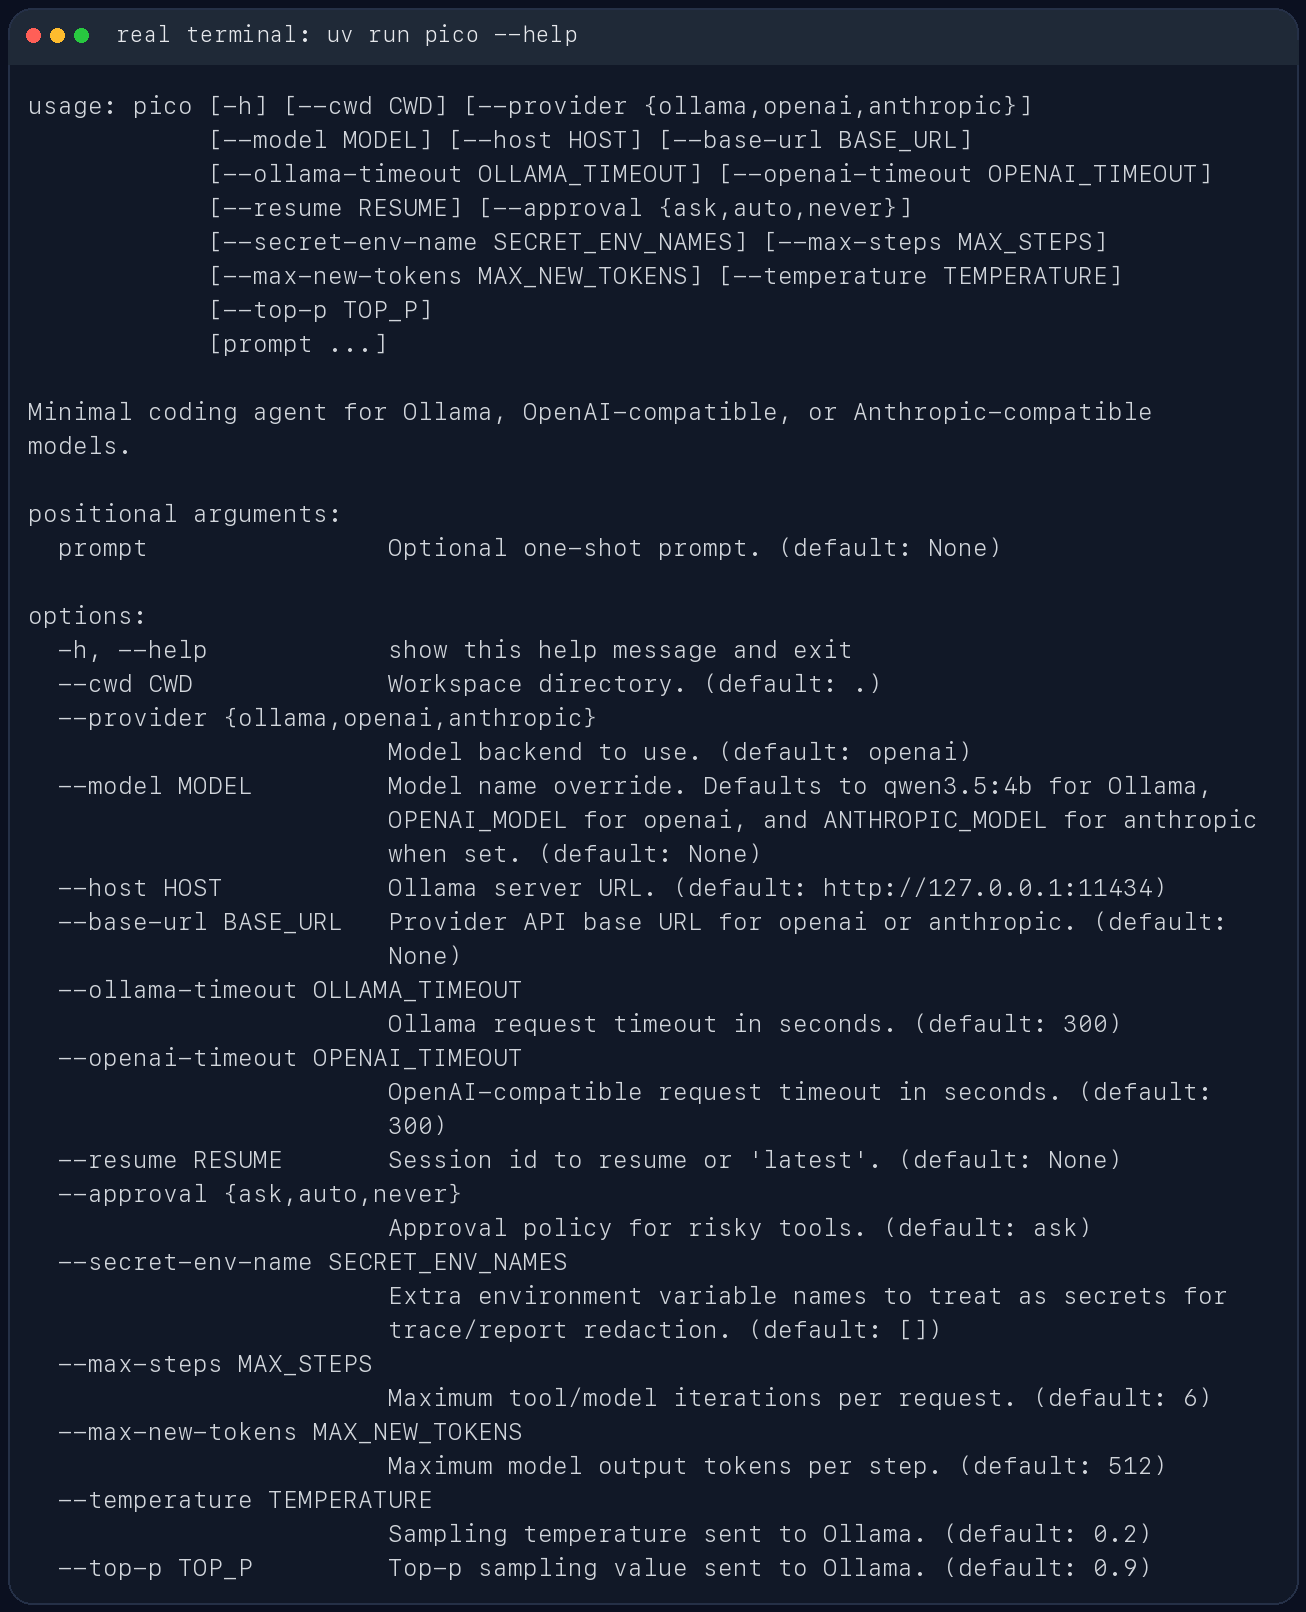
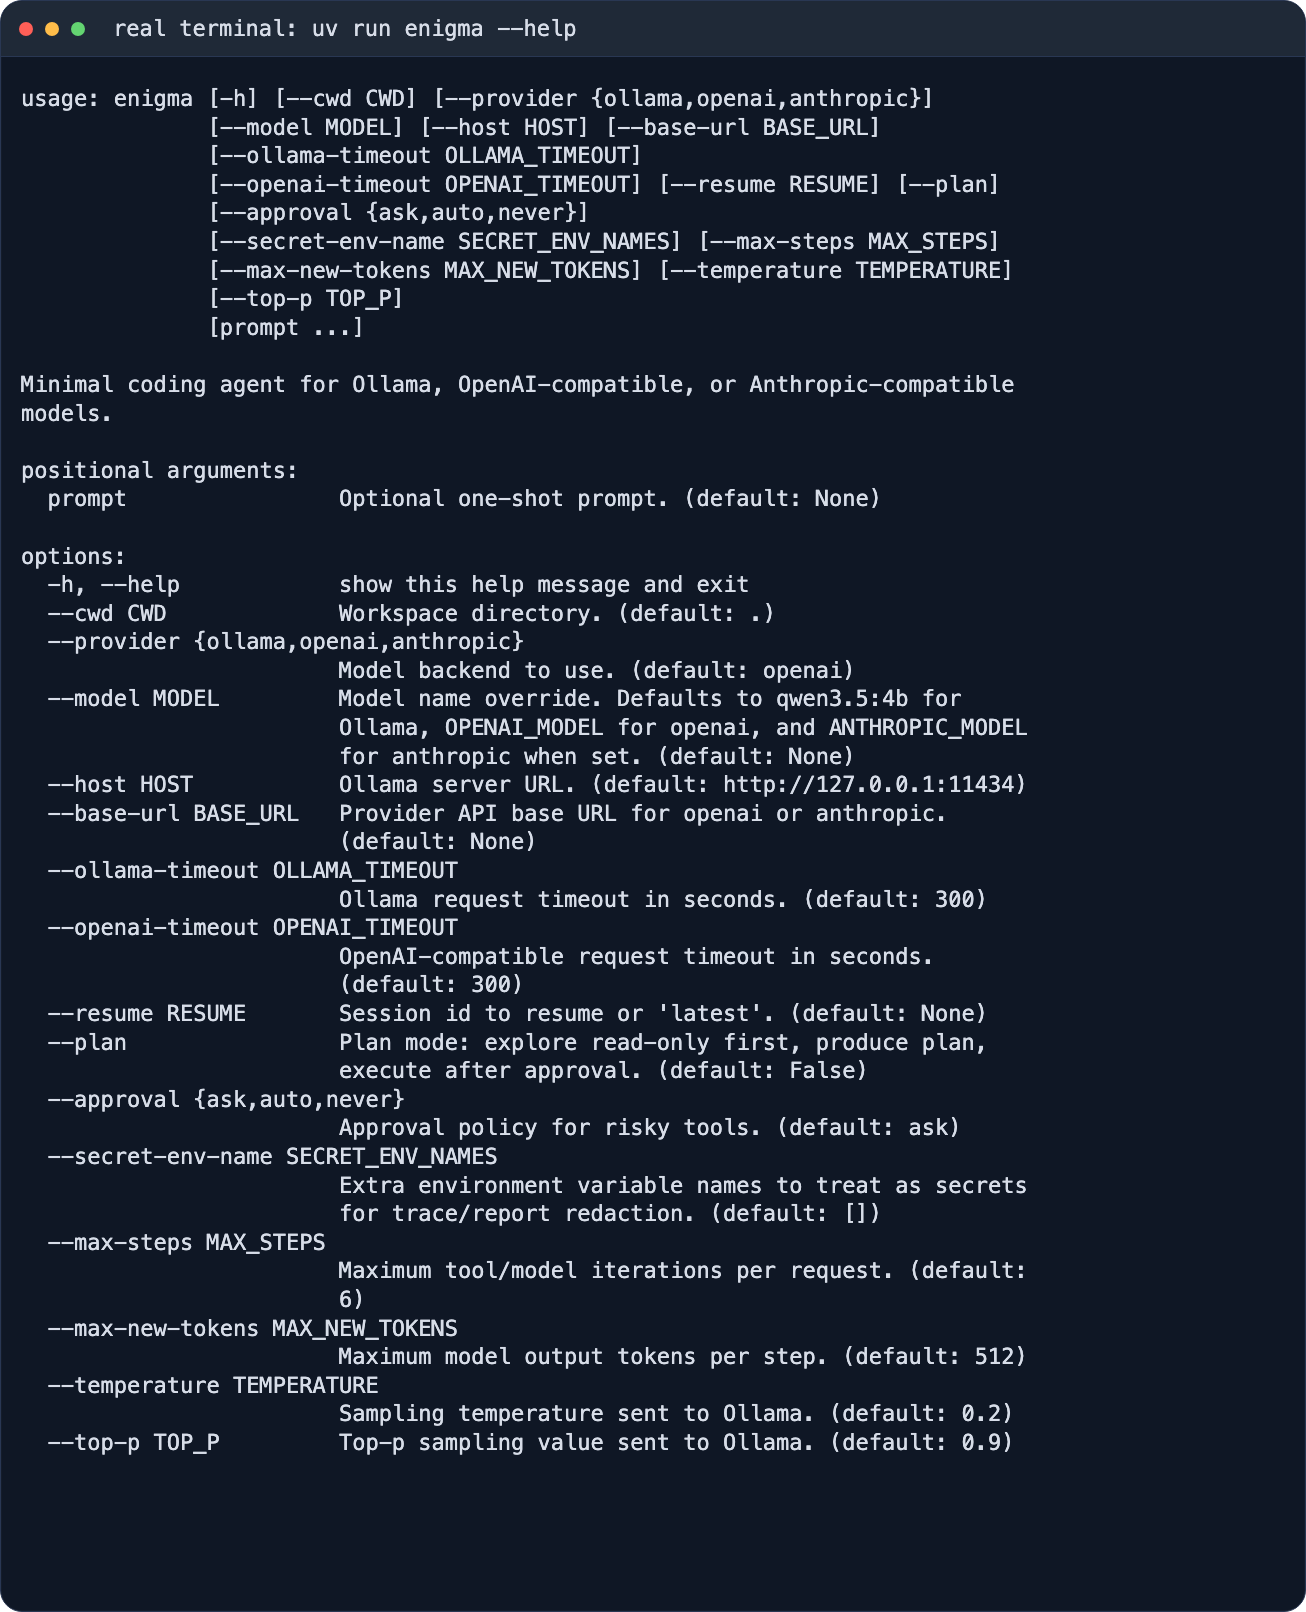
优化

diff --git a/enigma/cli.py b/enigma/cli.py
@@ -31,10 +31,10 @@ DEFAULT_SECRET_ENV_NAMES = (
 )
 
 WELCOME_ART = (
-    "        /\\___/\\\\",
-    "       (  o o  )",
-    "       /   ^   \\\\",
-    "      /|       |\\\\",
+    "        /\\_/\\",
+    "       ( o.o )",
+    "       /  ^  \\",
+    "      /|     |\\",
 )
 WELCOME_NAME = "enigma"
 WELCOME_SUBTITLE = "local coding agent"

diff --git a/README.md b/README.md
@@ -8,24 +8,102 @@ Enigma 是一个面向本地代码仓库的轻量级 coding agent。它运行在
 
 - **多模型后端**：支持 Ollama、OpenAI 兼容 Responses API、Anthropic 兼容 Messages API。
 - **仓库感知工作流**：启动时采集 Git 状态、项目文档、目录结构和最近提交，用于构建当前任务上下文。
-- **受控工具执行**：对文件读写、shell 执行、搜索、委派等工具做路径校验、审批策略、重复调用检测和密钥脱敏。
-- **分层记忆系统**：维护工作记忆、情景记忆、语义记忆，并通过文件 freshness 判断避免使用过期摘要。
+- **【本轮面试补强】Harness policy 硬约束**：把 UTF-8 读写、workspace 路径锚定、危险工具审批等确定性规则放在工具层，而不是依赖 prompt 提醒。
+- **受控工具执行**：对 glob、搜索、轻量 symbol search、文件读写、shell 执行和委派等工具做路径校验、审批策略、重复调用检测和密钥脱敏。
+- **显式 coding loop**：系统 prompt 要求按 `search/list/glob -> read -> reason -> edit/patch -> test/check -> observe -> revise` 推进代码修改，Plan 模式使用只读版探索闭环。
+- **【本轮面试补强】工程化记忆系统**：工作记忆减少重复探索，情景记忆保留失败和执行节点，语义记忆记录跨会话稳定事实及其适用场景。
 - **上下文预算管理**：按模型上下文窗口动态设置 prompt budget，并在超限前压缩 history、工具结果和记忆片段。
+- **【本轮面试补强】Plan / Execute / Review / Repair 编排**：`/orchestrate` 通过固定角色和有限状态转移形成轻量多智能体闭环。
 - **Plan / Review / Skills**：内置 `/plan` 只读规划、`/review` 代码审查、`/skills` 技能加载等面向工程任务的命令。
 - **可追踪运行产物**：每次任务生成 `task_state.json`、`trace.jsonl`、`report.json`，便于复盘和调试。
 - **测试覆盖完整**：围绕 runtime、记忆、上下文管理、安全约束、技能系统、审查流程和 session DB 编写了单元测试。
 
+## Problem → Design → Evidence
+
+Enigma 的定位不是“复刻一个聊天壳”，而是一个面向本地仓库任务的 coding agent harness。核心问题和对应设计如下：
+
+- **长任务重复探索**：模型容易反复读取同一批文件，也容易忘记已经验证过的事实。Enigma 用工作记忆保存当前任务、recent files 和带 freshness 的文件摘要，用相关记忆召回减少重复工具调用。
+- **工具边界不应只靠 prompt**：编码、路径和危险操作审批是确定性规则。Enigma 用 `HarnessPolicy` 和工具校验层保证 UTF-8 读写、workspace 锚定、risky tool 审批，而不是要求模型每次“记得遵守”。
+- **工具链需要覆盖常见 coding agent 闭环**：除了 `list_files`、`search`、`read_file`、`write_file` / `patch_file` 和 `run_shell`，Enigma 还补了 `glob` 和轻量 `symbol_search`，让模型能先定位文件和定义，再读取、修改、测试和修复。
+- **长期记忆需要触发场景**：语义记忆不只保存一句话，还可以保存 `problem` 和 `applies_when`，让 agent 知道这条约定未来在什么场景下用于解决什么问题。
+- **计划、执行、审查需要闭环**：单个模型循环很难区分计划错、执行错还是审查发现新风险。`/orchestrate` 把 Planner、Executor、Reviewer、RepairPlanner 拆成固定角色，用状态转移和 retry limit 控制交互。
+
+这些设计都写入 `trace.jsonl` / `report.json`，并由 pytest 覆盖典型边界：路径逃逸、只读规划、记忆召回、review 阻断、repair 重试和 retry abort。
+
+## 本轮面试补强改动
+
+这一轮改造来自一次项目面试复盘。面试官的核心质疑不是“功能少”，而是项目需要说清楚真实 coding agent 痛点、工程边界和最小有效改造。因此本轮没有引入重型框架，而是围绕 harness 能力做了四个有边界的增强。
+
+| 面试官指出的问题 | 本轮改进 | 可展示证据 | 面试时怎么回应 |
+| --- | --- | --- | --- |
+| 设计像功能复刻，没有从真实 coding 痛点出发 | README 改成 `Problem → Design → Evidence` 叙事，强调重复探索、工具边界、长任务闭环和跨会话教学成本 | 本 README 的问题映射；`.enigma/runs/<run_id>/trace.jsonl` / `report.json` | “我后来把项目从功能清单收敛成 coding agent harness，重点解释每个模块解决的真实问题。” |
+| 能用工具层约束解决的问题，不应只写 prompt | 新增 `HarnessPolicy` / `ToolPolicy`，把 UTF-8、workspace path、risky tool 审批、plan mode 工具过滤放到确定性策略层 | `enigma/policy.py`、`enigma/tools.py`、`tests/test_safety_invariants.py`、`tests/test_plan_mode.py` | “prompt 是软约束。路径安全、编码和审批这种规则应该由 harness 保证，而不是靠模型记住。” |
+| 工具面和流程没有完整对齐 coding agent 常见闭环 | 新增 `glob`、轻量 `symbol_search`，并在正常/Plan prompt 中显式写入定位、读取、修改、测试、观察、修复流程 | `enigma/tools.py`、`enigma/runtime.py`、`tests/test_enigma.py` | “我没有只在文档里说 workflow，而是补了模型可调用的文件定位和符号定位工具，并把闭环写进系统 prompt。” |
+| 记忆系统说不清什么时候触发、解决什么问题 | durable memory 增加 `problem` 和 `applies_when`，召回时把适用场景展示给模型 | `enigma/memory.py`、`enigma/context_manager.py`、`tests/test_memory.py` | “长期记忆不只存文本，还存未来什么时候用它。这样才能解释记忆为什么会被召回。” |
+| multi-agent 不能只是线性流水线 | 新增 `/orchestrate`：Planner / Executor / Reviewer / RepairPlanner 固定角色，支持执行失败和 review finding 回到 RepairPlan，带 retry limit | `enigma/orchestration.py`、`enigma/cli.py`、`tests/test_orchestration.py` | “它不是开放 swarm，而是 bounded orchestration。角色边界、工具边界和状态转移都很清楚。” |
+| 项目缺少可验证证据 | 新增 orchestration、policy、memory 相关测试，并跑通真实 Ollama 调用链 | `231 passed`、`ruff check`、真实 `/orchestrate` 输出 | “我没有只写 README，补了回归测试和一次真实模型调用，能展示状态机确实完成闭环。” |
+
+### 本轮新增或重点修改的文件
+
+- `enigma/policy.py`：本轮新增，承载 harness / tool policy 的确定性规则。
+- `enigma/orchestration.py`：本轮新增，实现 Plan / Execute / Review / Repair 状态机。
+- `enigma/cli.py`：本轮修改，新增 `/orchestrate <task>` 命令入口。
+- `enigma/memory.py`：本轮修改，durable memory 支持 `problem` 和 `applies_when`。
+- `enigma/context_manager.py`：本轮修改，召回记忆时展示适用场景。
+- `enigma/tools.py`：本轮修改，将 risky tool 与审批、plan mode 工具面进一步对齐。
+- `enigma/runtime.py`：本轮修改，在正常模式和 Plan 模式 prompt 中明确 coding loop，并暴露 `glob` / `symbol_search` 示例。
+- `tests/test_orchestration.py`：本轮新增，覆盖正常路径、repair、review 阻断、retry abort、只读 reviewer 工具面和 trace。
+- `tests/test_memory.py`、`tests/test_plan_mode.py`、`tests/test_safety_invariants.py`：本轮补强，覆盖 applies_when、plan mode 工具限制和策略边界。
+
+### 本轮真实验证
+
+本轮验证包括单元测试、静态检查和真实模型调用。
+
+```bash
+uv run pytest -q
+# 231 passed
+
+uv run ruff check .
+# All checks passed!
+
+uv run enigma --provider ollama --model qwen3.6:35b-a3b --approval never --max-steps 4 --max-new-tokens 512 \
+  "请先调用 read_file 工具读取 README.md 的第 1 到 20 行，然后根据工具结果用中文简要总结这个项目是什么。必须先调用工具，不要直接回答。"
+# 真实链路：model -> read_file tool -> model -> final
+
+uv run enigma --provider ollama --model qwen3.6:35b-a3b --approval never --max-steps 6 --max-new-tokens 700 \
+  "/orchestrate 只读检查 README.md 的项目定位，并给出是否符合 coding agent harness 叙事的简短结论。不要修改任何文件。"
+# Orchestration complete.
+# - state: DONE
+# - retries: 0/2
+# - steps: 3
+# - review_findings: 0
+```
+
+实机测试也暴露了一个真实模型行为：`qwen3.6:35b-a3b` 有时会重复工具调用或重复输出 `<final>`。当前 runtime 的重复工具调用防护可以拦截相同工具调用，`/orchestrate` 的状态机也能收敛到 `DONE`。本轮因此调整了计划步骤解析，只把 `## Steps` 中的顶层步骤作为 active step，避免把缩进说明和风险列表误当成多个执行步骤。
+
+## 面试回答口径
+
+**项目总述**：Enigma 是一个本地 coding agent harness。它不是训练大模型，也不是单纯聊天壳，而是在应用层解决 agent 如何安全、稳定、可追踪地完成本地仓库任务。
+
+**为什么不是只靠 prompt**：prompt 是软约束。UTF-8、路径锚定、危险工具审批、plan mode 只读工具面这些确定性规则，应该落到 harness policy 和工具层。
+
+**记忆系统解决什么问题**：工作记忆减少重复探索，情景记忆帮助长任务恢复和失败追踪，语义记忆减少跨会话重复教学。本轮给长期记忆加了 `applies_when`，让 agent 知道这条记忆未来在什么场景下该被召回。
+
+**这算不算 multi-agent**：它不是开放式 swarm，而是 bounded multi-agent orchestration。Planner、Executor、Reviewer、RepairPlanner 有固定职责和状态转移；执行失败或审查不通过会回到 RepairPlanner，超过 retry limit 会 abort。
+
+**为什么适配 Apple LLM/Agent Intern**：这个项目对应 LLM/Agent practical applications、multi-agent systems、backend integration、performance and efficiency。它展示的是 agent harness 的工程化能力：工具边界、状态机、记忆召回、trace/report 和真实调用验证。
+
 ## 使用截图
 
-CLI 帮助信息：
+当前版本 CLI 帮助信息：
 
 ![enigma help](assets/screenshots/enigma-help.png)
 
-启动界面：
+当前版本启动界面：
 
 ![enigma start](assets/screenshots/enigma-start.png)
 
-REPL 内置命令与会话路径：
+当前版本 REPL 内置命令与会话路径：
 
 ![enigma repl](assets/screenshots/enigma-repl.png)
 
@@ -45,7 +123,9 @@ enigma/
   cli.py              # CLI 参数解析、模型后端选择、REPL 启动
   runtime.py          # Agent 控制循环、工具调度、trace 与记忆更新
   models.py           # Ollama / OpenAI-compatible / Anthropic-compatible 客户端
-  tools.py            # 文件、shell、搜索、委派等工具实现
+  policy.py           # HarnessPolicy / ToolPolicy：确定性工具规则
+  orchestration.py    # Plan / Execute / Review / Repair 状态机编排
+  tools.py            # 文件、glob、搜索、symbol search、shell、委派等工具实现
   context_manager.py  # prompt 预算、压缩与上下文组装
   memory.py           # 分层记忆、文件摘要 freshness、语义记忆
   workspace.py        # Git 与工作区快照
@@ -142,6 +222,7 @@ uv run enigma --provider anthropic
 
 - `/help`：查看内置命令
 - `/plan <task>`：进入只读探索与计划审批流程
+- `/orchestrate <task>`：运行 Plan / Execute / Review / Repair 轻量编排
 - `/review [target]`：审查当前变更、指定分支、PR 链接或文件
 - `/skills`：列出可用技能
 - `/compact [focus]`：压缩工作记忆、情景记忆、语义记忆和 history
